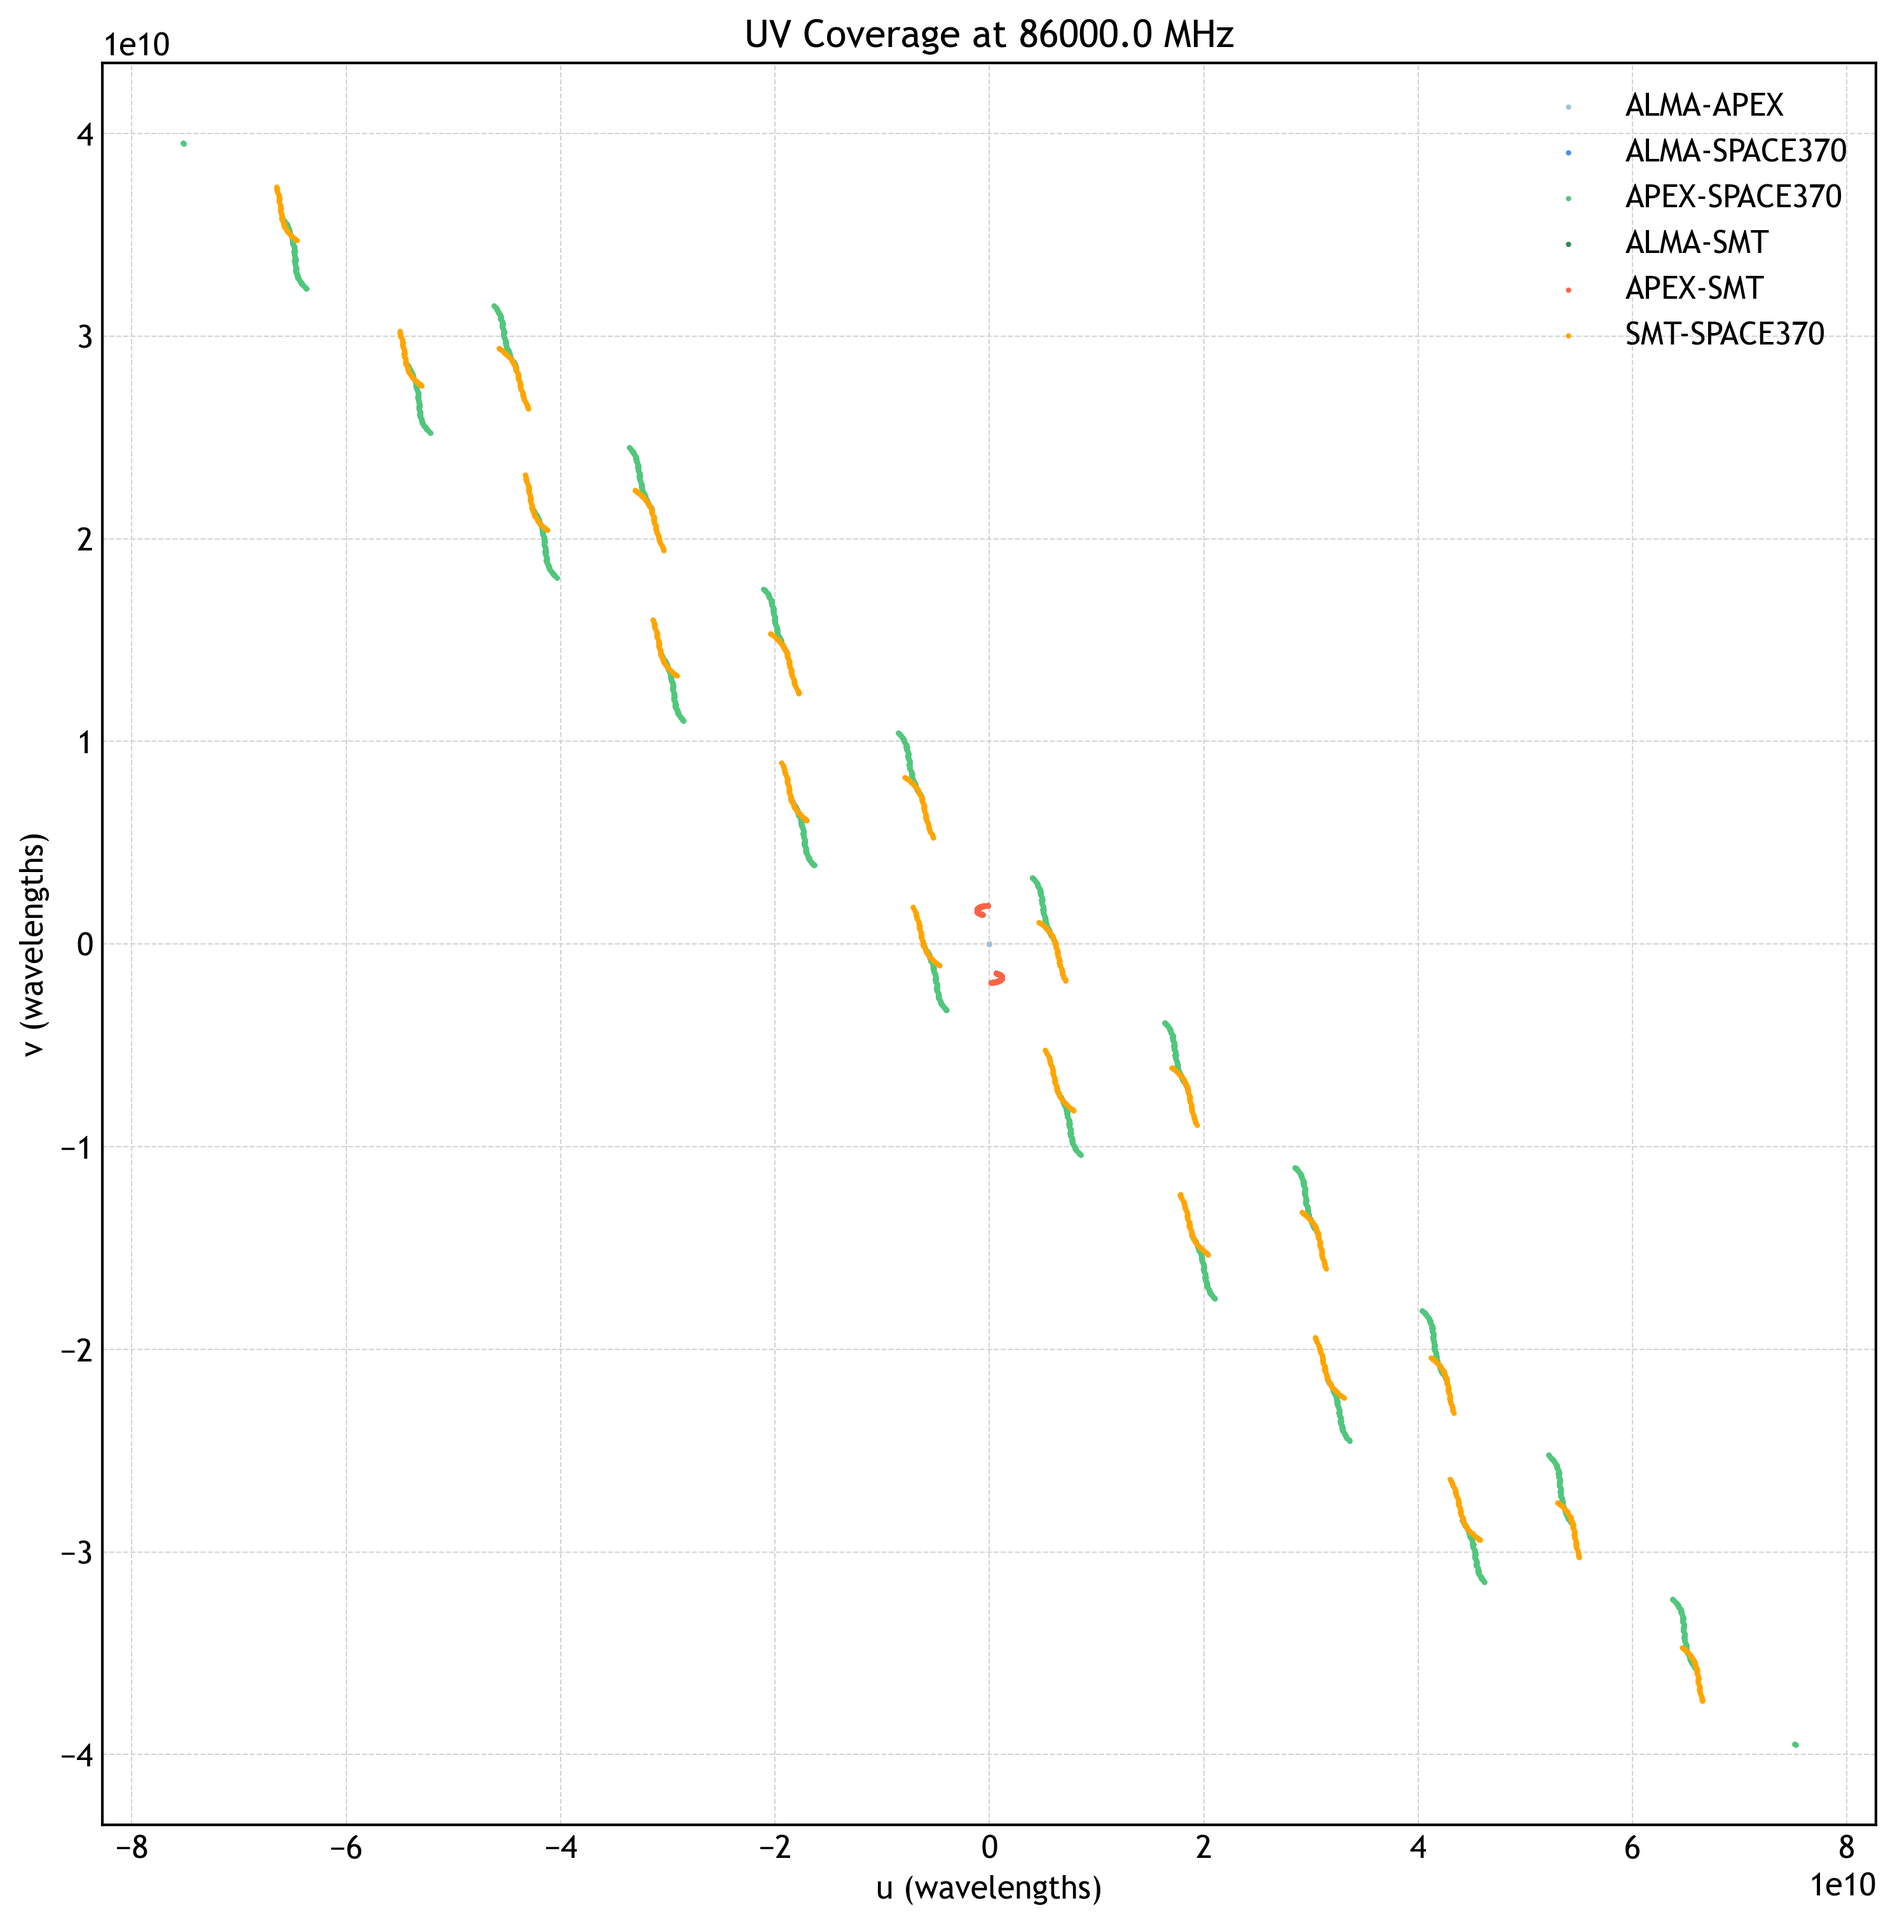
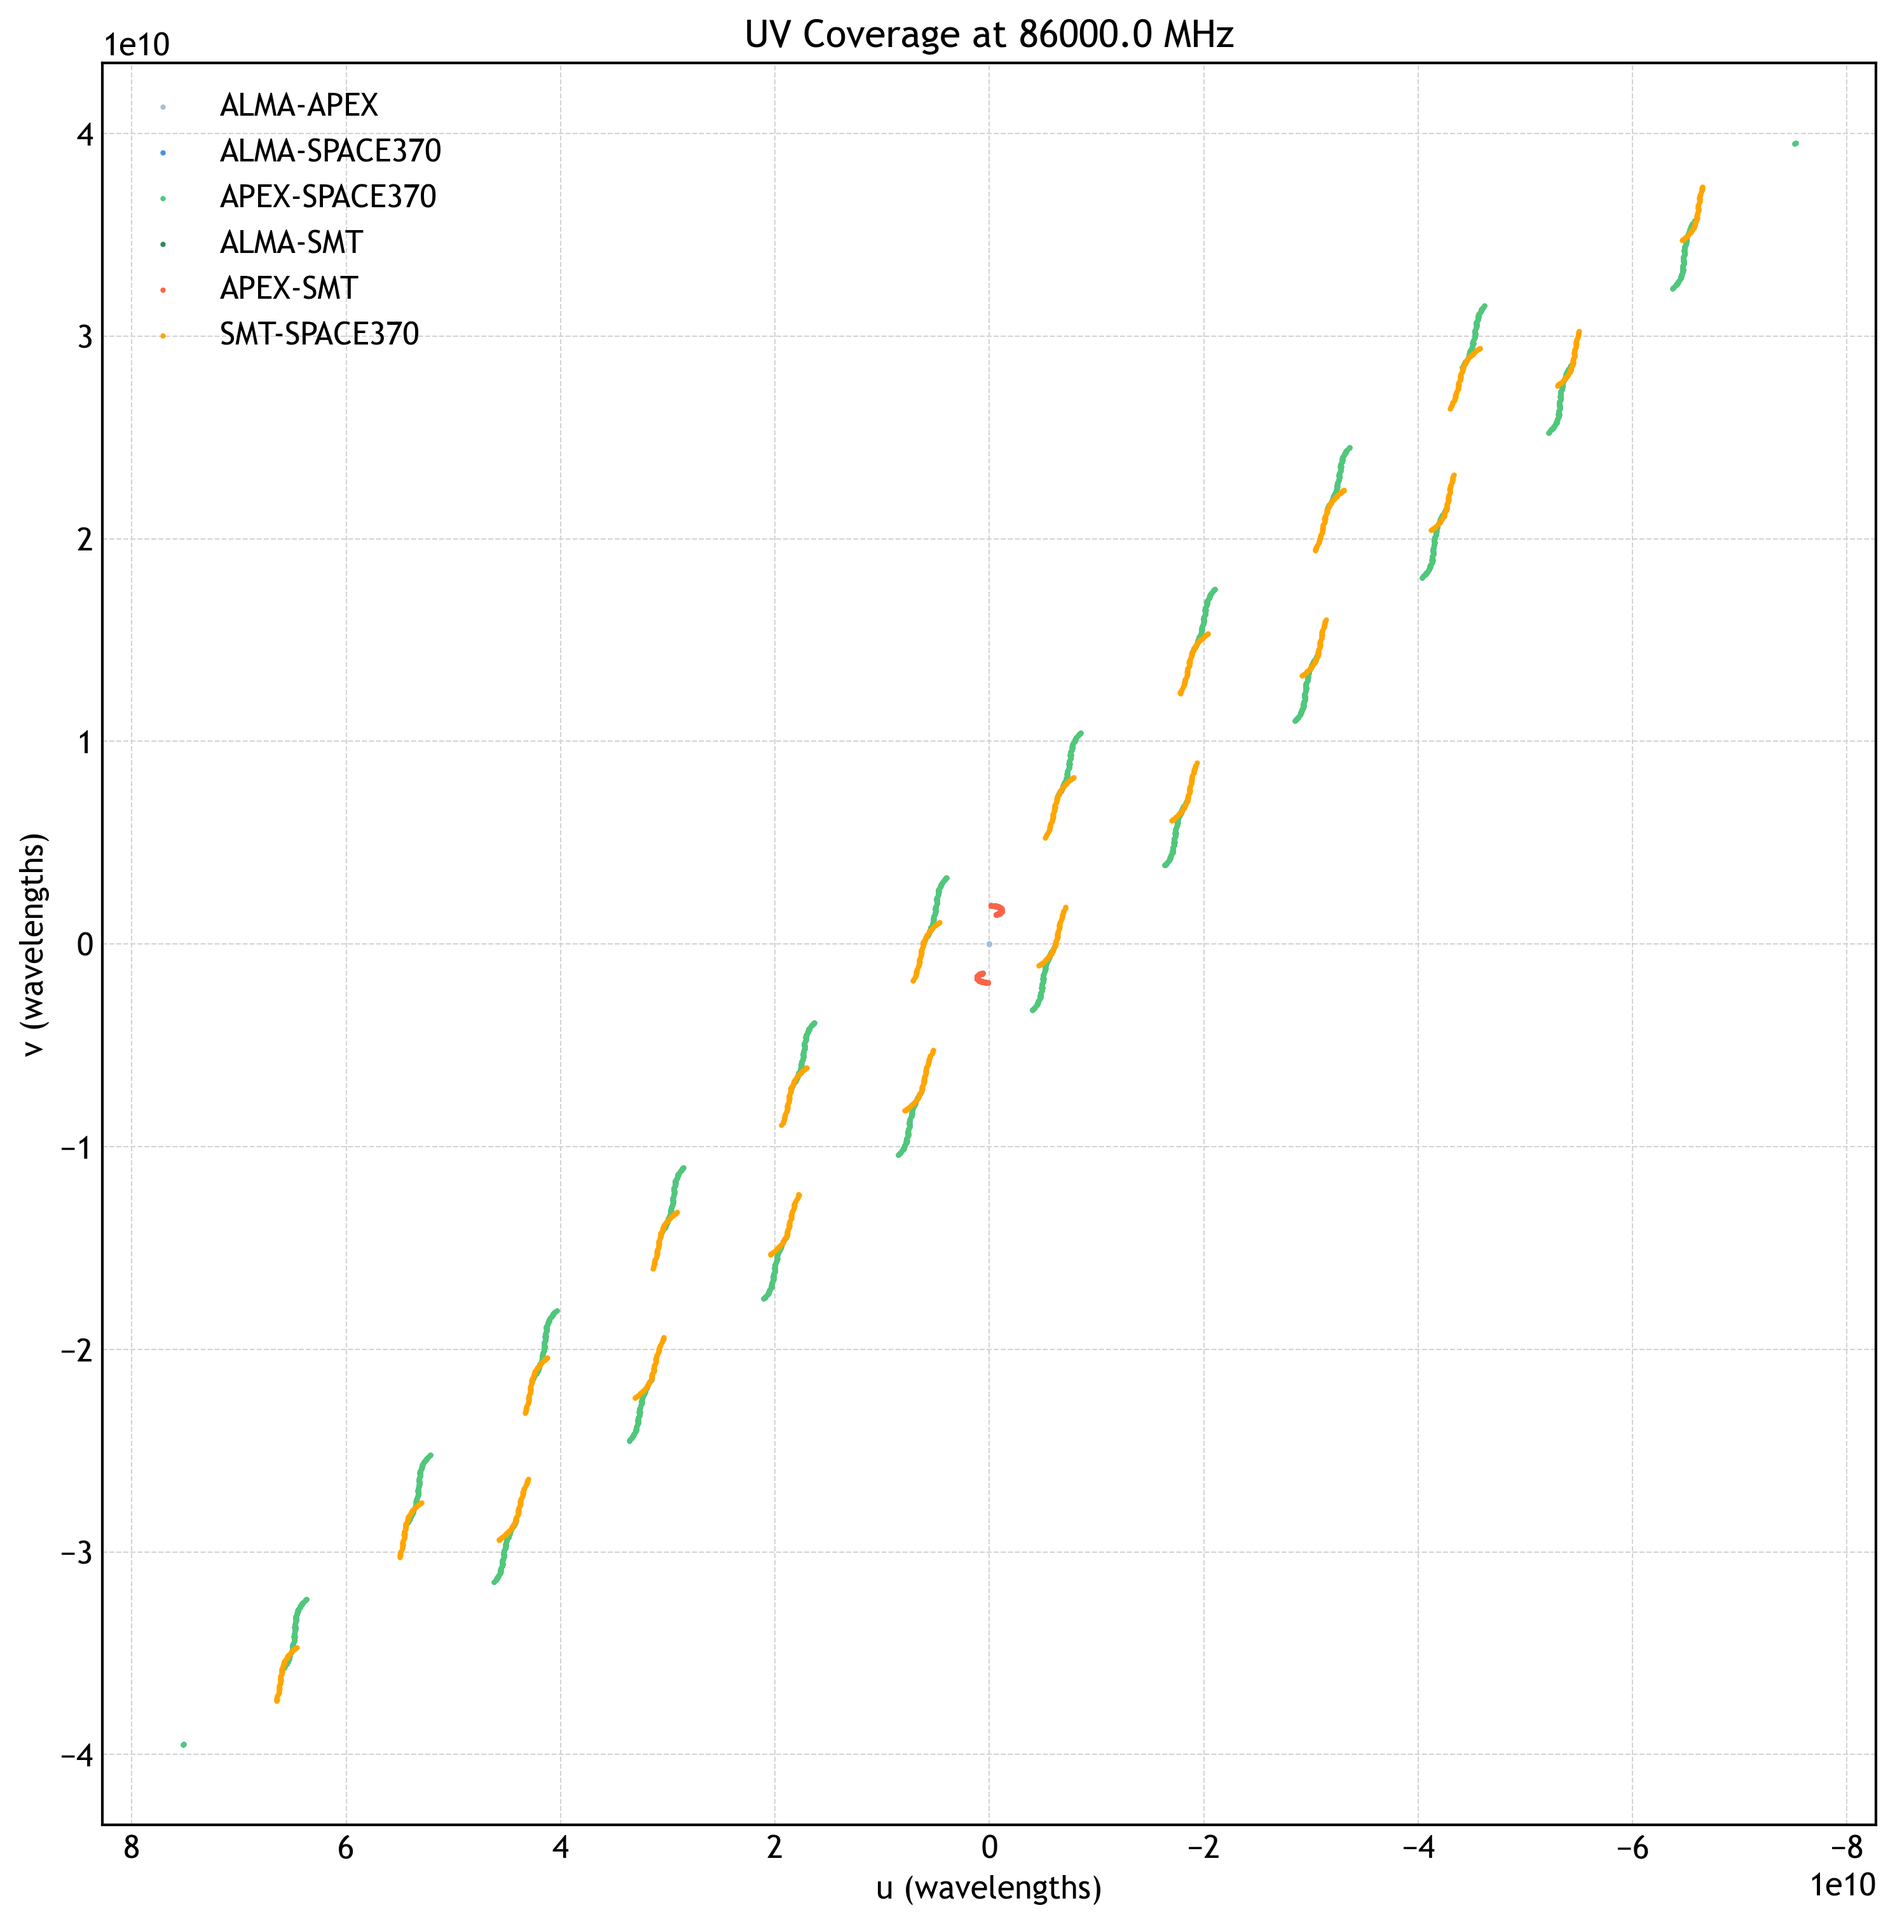
08.04.2025

diff --git a/unit_scheduling/super/schedule_visualizer.py b/unit_scheduling/super/schedule_visualizer.py
@@ -266,6 +266,7 @@ class ScheduleVisualizer(Super):
         plt.title(f"UV Coverage at {frequency/1e6:.1f} MHz")
         plt.grid(True)
         plt.legend()
+        plt.gca().invert_xaxis()
         return {"status": "success", "baselines": len(baselines)}
 
     def _plot_source_visibility(self, obj: Observation, attributes: Dict[str, Any]) -> Dict[str, Any]:
